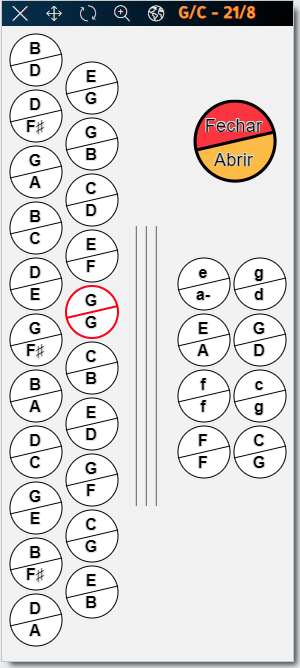
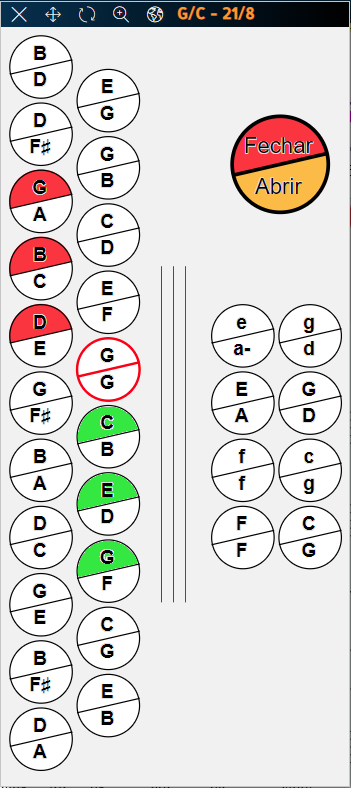
ajustes na documentação

Changed region(s): [[0.0, 0.0, 1.0, 1.0], [0.45, 0.3293, 0.54, 0.7784]]

diff --git a/html/mapas.pt_BR.html b/html/mapas.pt_BR.html
@@ -41,8 +41,10 @@ notação abc, tablatura ">
 <div id="helpContainer" class="helpContent">
 <h1>Mapas para Acordeões</h1>
 <h2>O que é um mapa de acordeão?</h2>
-<img src="/images/mapa.vert.png" style="width: 300px; float: left; margin-right: 1em;" alt="Mapa de um acordeão de 21/8 botões afinado em G/C" title="Mapa de um acordeão de 21/8 botões afinado em G/C" >
-<br><span class="legenda">Figura 1: Mapa de um acordeão.</span>
+<div style="float:left;">
+  <img src="/images/mapa.vert.png" style="width: 300px;  margin-right: 1em;" alt="Mapa de um acordeão de 21/8 botões afinado em G/C" title="Mapa de um acordeão de 21/8 botões afinado em G/C" >
+  <br><span class="legenda">Figura 1: Mapa de um acordeão.</span>
+</div>
 <p>Um mapa de acordeão é o conceito que usamos para descrever um modelo
 de gaita. Para esta determinada gaita vamos definir coisas tais como: o
 nome, quantidade de botões, identificar a afinação e o botão pedal,
@@ -68,15 +70,16 @@ informações sobre mapas e repertório são encontradas abaixo.</p>
 
 <p>Uma das vantagens de termos o mapa de um acordeão é que através dele podemos facilmente identificar a afinação da gaita.
 </p>
-<p>Observe as 3 notas destacadas na fileira externa. Estas 3 notas executadas fechando o fole do acordeão vão produzir o 
+<p>Observe as 3 notas destacadas em vermelho, na fileira externa. Estas 3 notas executadas fechando o fole do acordeão vão produzir o 
     acorde de <span style="font-weight: bold;">"Sol maior"</span> (Sol, Si, Ré). Perceba que o padrão
 se repete nos próximos 3 botões e também nos últimos 3 e, mesmo os 2 primeiros botões da fileira, são subconjutos do acorde.
 </p>
 <p>Procure agora o acorde de <span style="font-weight: bold;">"Dó maior"</span> (Dó, Mi, Sol) na fileira interna. 
-    Vocẽ os encontrará nos botões 3, 4 e 5, também fechando. A Outra tríade será "6, 7, 8". 
-    Os botões iniciais e finais ainda serão parte do acorde de Dó.
+    Você o encontrará nos botões 3, 4 e 5, também fechando o fole. A Outra tríade será 6, 7, 8 (destacada em verde). 
+    Os botões iniciais e finais da ilheira, ainda serão parte do acorde de Dó.
 </p>
-<p>Com estas informações podemos dizer que o acordeão está afinado em Sol e Dó (G/C). Significa dizer que esta gaita poderá executar canções compostas em Sol ou Dó. <br>
+<p>Com estas informações podemos dizer que o acordeão está afinado em Sol e Dó <b>(G/C)</b>. 
+  Significa dizer que, nesta gaita, será possível, executar, primordialmente, canções compostas em Sol ou Dó. <br>
 </p>
 <p>Estas informações serão determinantes para a organização dos 8 baixos. Considere o campo harmônico do tom de 
     <span style="font-weight: bold;">"Sol maior"</span>: Dó maior, Sol maior e Ré maior. Considere também o campo harmônico 
@@ -111,8 +114,8 @@ partitura. Contudo, se você está aprendendo a tocar este instrumento, o
 botão "<span style="font-weight: bold;">Ferramentas</span>" dará acesso
 a um pequeno "estúdio" para aprendizagem. Há ferramentas para modificar
 a partitura/tablatura, executá-la no modo normal ou no modo didático.
-Para detalhes acesse o menu de ajuda "<span style="font-weight: bold;">Estúdio
-ABCX</span>".<br>
+Para detalhes acesse, no menu de <b>"Informações"</b>,
+ a opção <span style="font-weight: bold;">"Estúdio ABCX"</span>.
 </p>
 <h2>Menu Acordeões</h2>
 <p>A partir deste menu é possível selecionar cada um dos acordeões
@@ -279,7 +282,7 @@ propriamente, um repertório. Serão gravados todos as partituras
 associadas ao acordeão que estiver selecionado no momento. </p>
 <p>Você pode editá-lo com qualquer editor de texto e você verá que cada
 canção é uma peça em formato ABCX. Veja a documentação sobre o <span style="font-weight: bold;">"Formato ABCX"</span>, no menu <span style="font-weight: bold;">"Informações"</span>, para saber detalhes
-de edição. Para alterarq uma canção específica, sugerimos que faça uso
+de edição. Para alterar uma canção específica, sugerimos que faça uso
 do nosso <span style="font-weight: bold;">"Editor&nbsp; de Partituras"</span>,
 no menu <span style="font-weight: bold;">"Repertório"</span>, escolha <span style="font-weight: bold;">"ABCX &gt; Partitura".</span><br>
 </p>
@@ -335,6 +338,8 @@ ABCX</span>".&nbsp; É possivel carregar e salvar no disco local
 arquivos texto em formato ABCX. Veja a documentação sobre o "<span style="font-weight: bold;">Formato
 ABCX</span>", no menu <span style="font-weight: bold;">"Informações"</span>.&nbsp;
 </p>
+<br>
+<br>
 
 <div class="info" >
   Acesse nosso site para imprimir e executar as partituras:<br>

diff --git a/html/tablatura.pt_BR.html b/html/tablatura.pt_BR.html
@@ -64,12 +64,12 @@
                acordeão diatônico de “Gaita Ponto”.</p>
             <p>Neste material, adotamos algumas convenções. A saber:</p>
             <ul>
-                <li>As notas são representadas por letras maiúsculas, seguindo o padrão das cifras musicais.</li>
+                <li>As notas são representadas por letras maiúsculas, seguindo o Sistema Internacional de Cifras.</li>
                 <li>Os acordes (dos baixos) são representados por letras minúsculas.</li>
                 <li>Os acordes menores são complementados com um hífen (-).</li>
                 <li>Em cada botão, a nota representada na parte superior é a que soa quando o fole está fechando.</li>
             </ul>
-            <h3>Breve explicação sobre as cifras</h3>
+            <h3>Breve explicação sobre as Cifras</h3>
             <p> As cifras são usadas em todos os instrumentos musicais. Elas são compostas por letras, sinais e números. 
             As notas básicas são representadas por sete (7) letras maiúsculas do alfabeto. Cada letra representa uma 
             nota: 

diff --git a/html/estudioABCX.pt_BR.html b/html/estudioABCX.pt_BR.html
@@ -203,7 +203,7 @@
                 </li>
                 <li><span style="font-weight: bold;">Ampliar</span> - Ajusta o tamanho teclado em&nbsp; 3 tamanhos distintos, alternados a cada vez que o botão é pressionado.
                 </li>
-                <li><span style="font-weight: bold;">Mudar a notação</span> - Alterna o padrão de exibição dos nomes das notas, mostrando o padrão internacional de cifras 
+                <li><span style="font-weight: bold;">Mudar a notação</span> - Muda o padrão de exibição dos nomes das notas, alternando entre o Sistema Internacional de Cifras 
                     ou os nomes das notas em português. Os nomes de acordes dos baixos são sempre mostrados em minúsculo. Acordes menores são marcados com hífen, 
                     p. ex., "lá-" ou "a-" representam o acorde "Lá menor".<br>
                 </li>

diff --git a/html/tablaturaTransportada.pt_BR.html b/html/tablaturaTransportada.pt_BR.html
@@ -65,7 +65,7 @@ brasileira, não existe a nota “pedal” (botão que emite a mesma nota
 fechando ou abrindo o fole).</p>
             <p>Neste material, adotamos algumas convenções. A saber:</p>
             <ul>
-                <li>As notas são representadas por letras maiúsculas, seguindo o padrão das cifras musicais.</li>
+                <li>As notas são representadas por letras maiúsculas, seguindo o Sistema Internacional de Cifras.</li>
                 <li>Os acordes (dos baixos) são representados por letras minúsculas.</li>
                 <li>Os acordes menores são complementados com um hífen (-).</li>
                 <li>Em cada botão, a nota representada na parte superior é a que soa quando o fole está fechando.</li>
